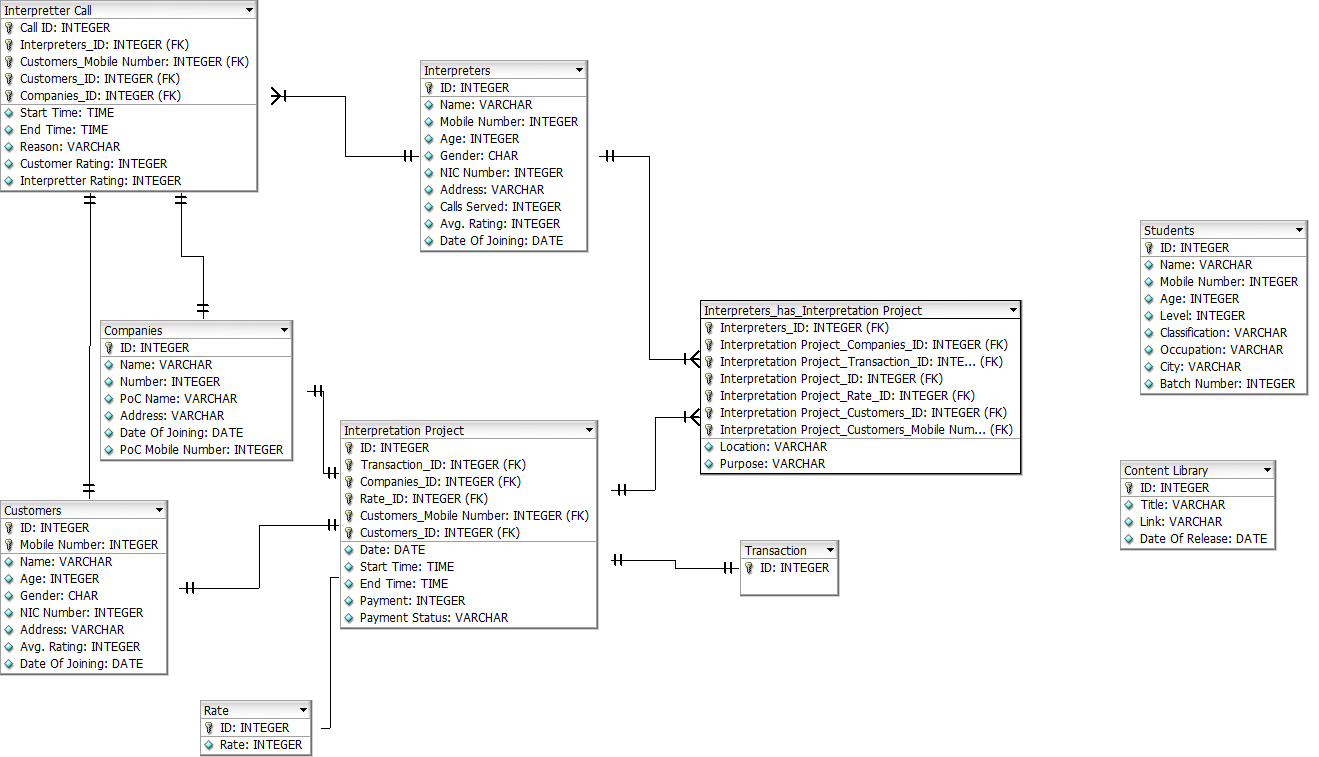
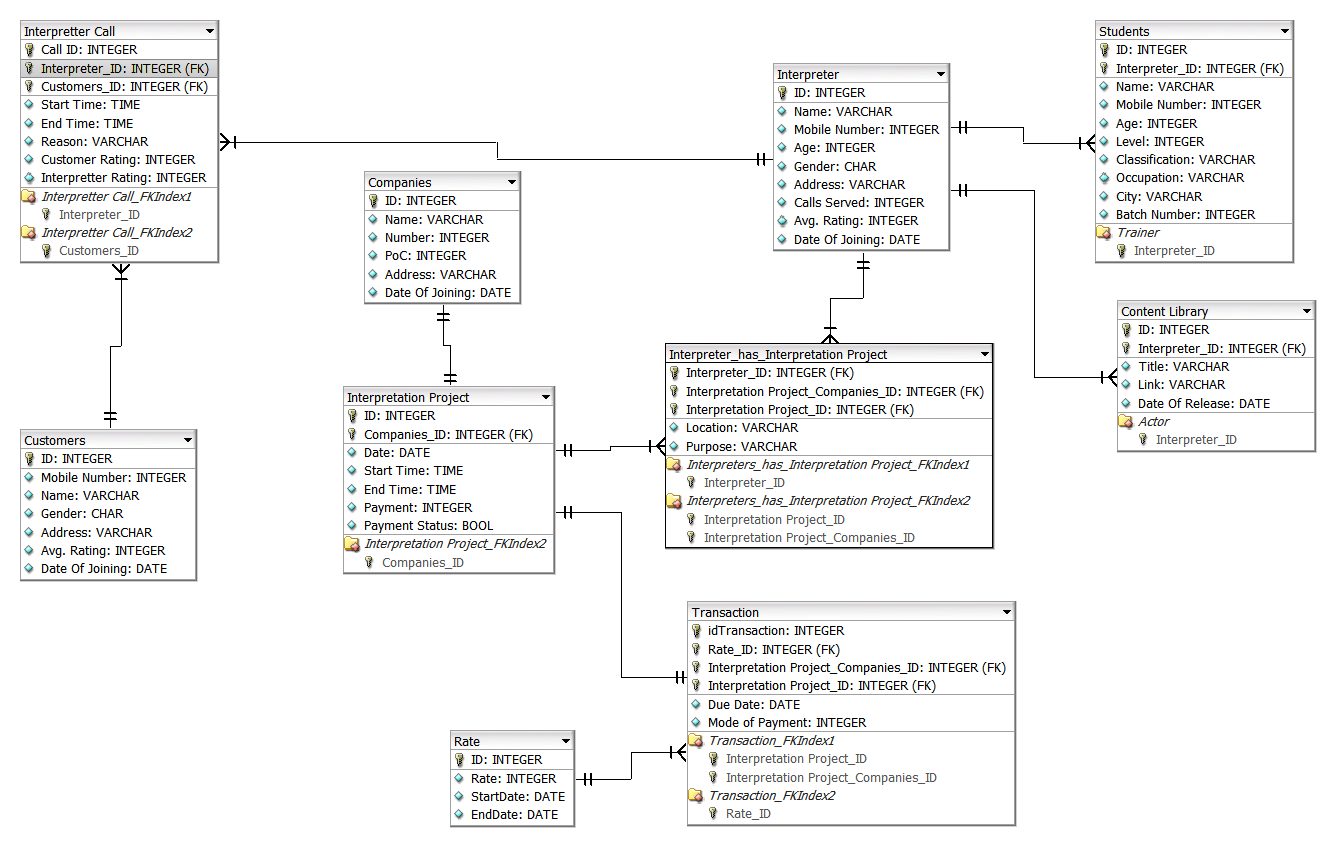
erd update

diff --git a/course-project-kashmiri_chai/README.md b/course-project-kashmiri_chai/README.md
@@ -1,0 +1,2 @@
+Database Project
+
